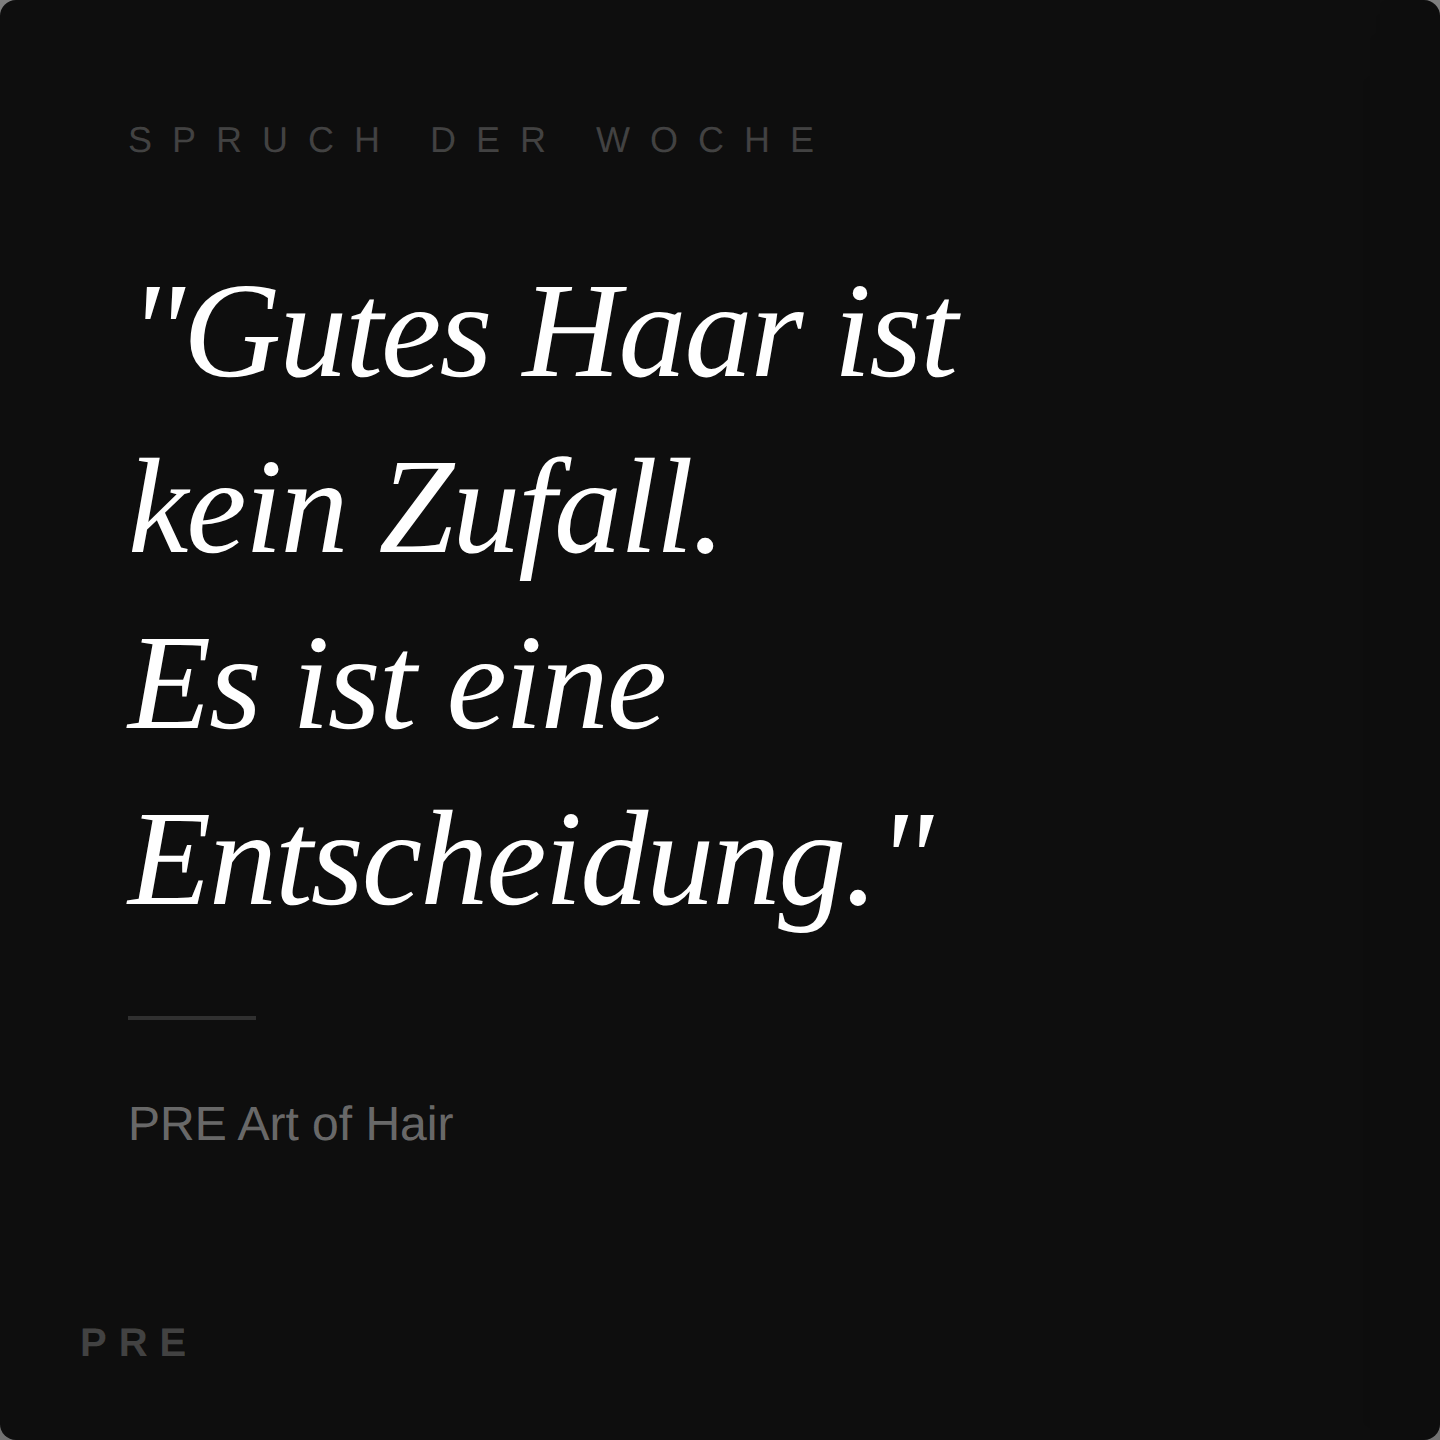
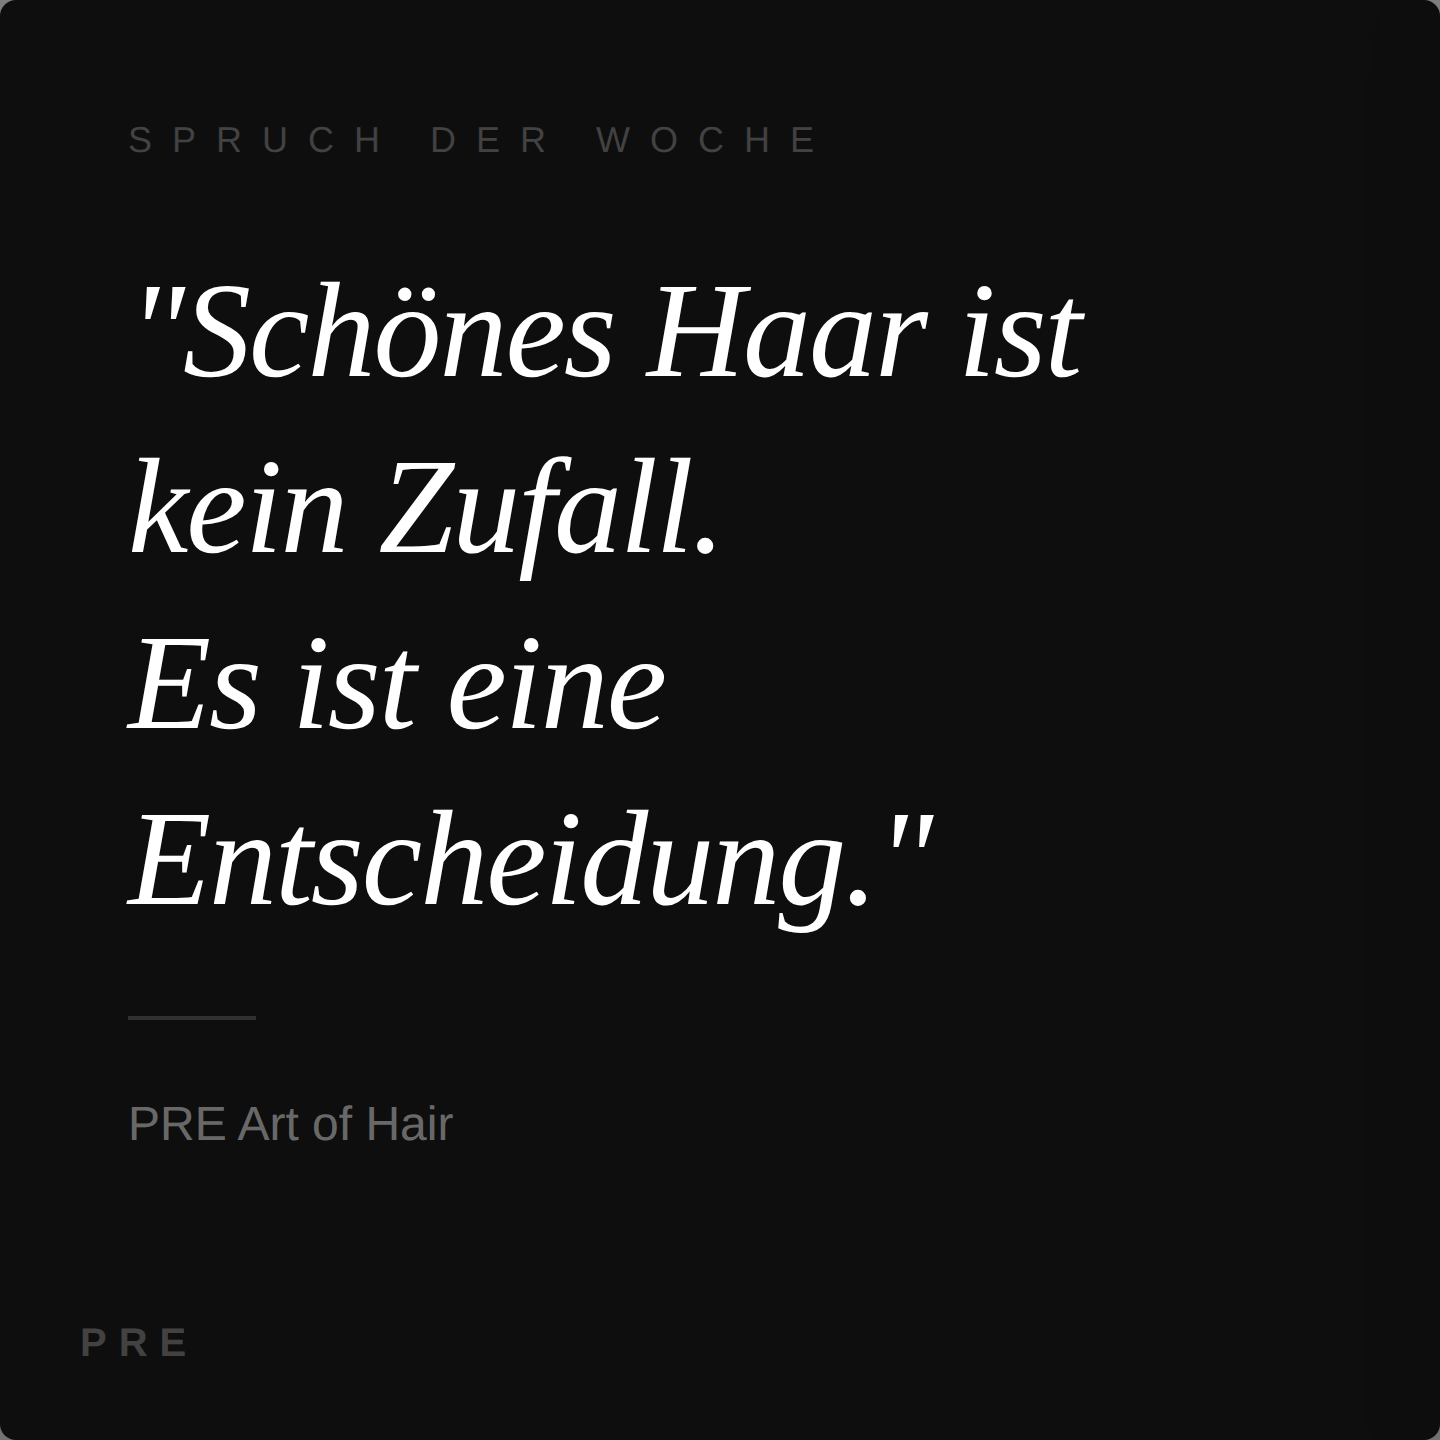
Change quote: Gutes → Schönes Haar
Claude-Session: https://claude.ai/code/session_01BaC8m9wAmbtKccXQSCmnYc

Changed region(s): [[0.125, 0.1875, 0.75, 0.2812]]

diff --git a/carousel-weekly-update-kw29.html b/carousel-weekly-update-kw29.html
@@ -191,7 +191,7 @@
     <div class="kw">Spruch der Woche</div>
     <div class="quote-center">
       <div class="quote-text">
-        "Gutes Haar ist<br>kein Zufall.<br>Es ist eine<br>Entscheidung."
+        "Schönes Haar ist<br>kein Zufall.<br>Es ist eine<br>Entscheidung."
       </div>
       <div class="rule"></div>
       <div class="body">PRE Art of Hair</div>
